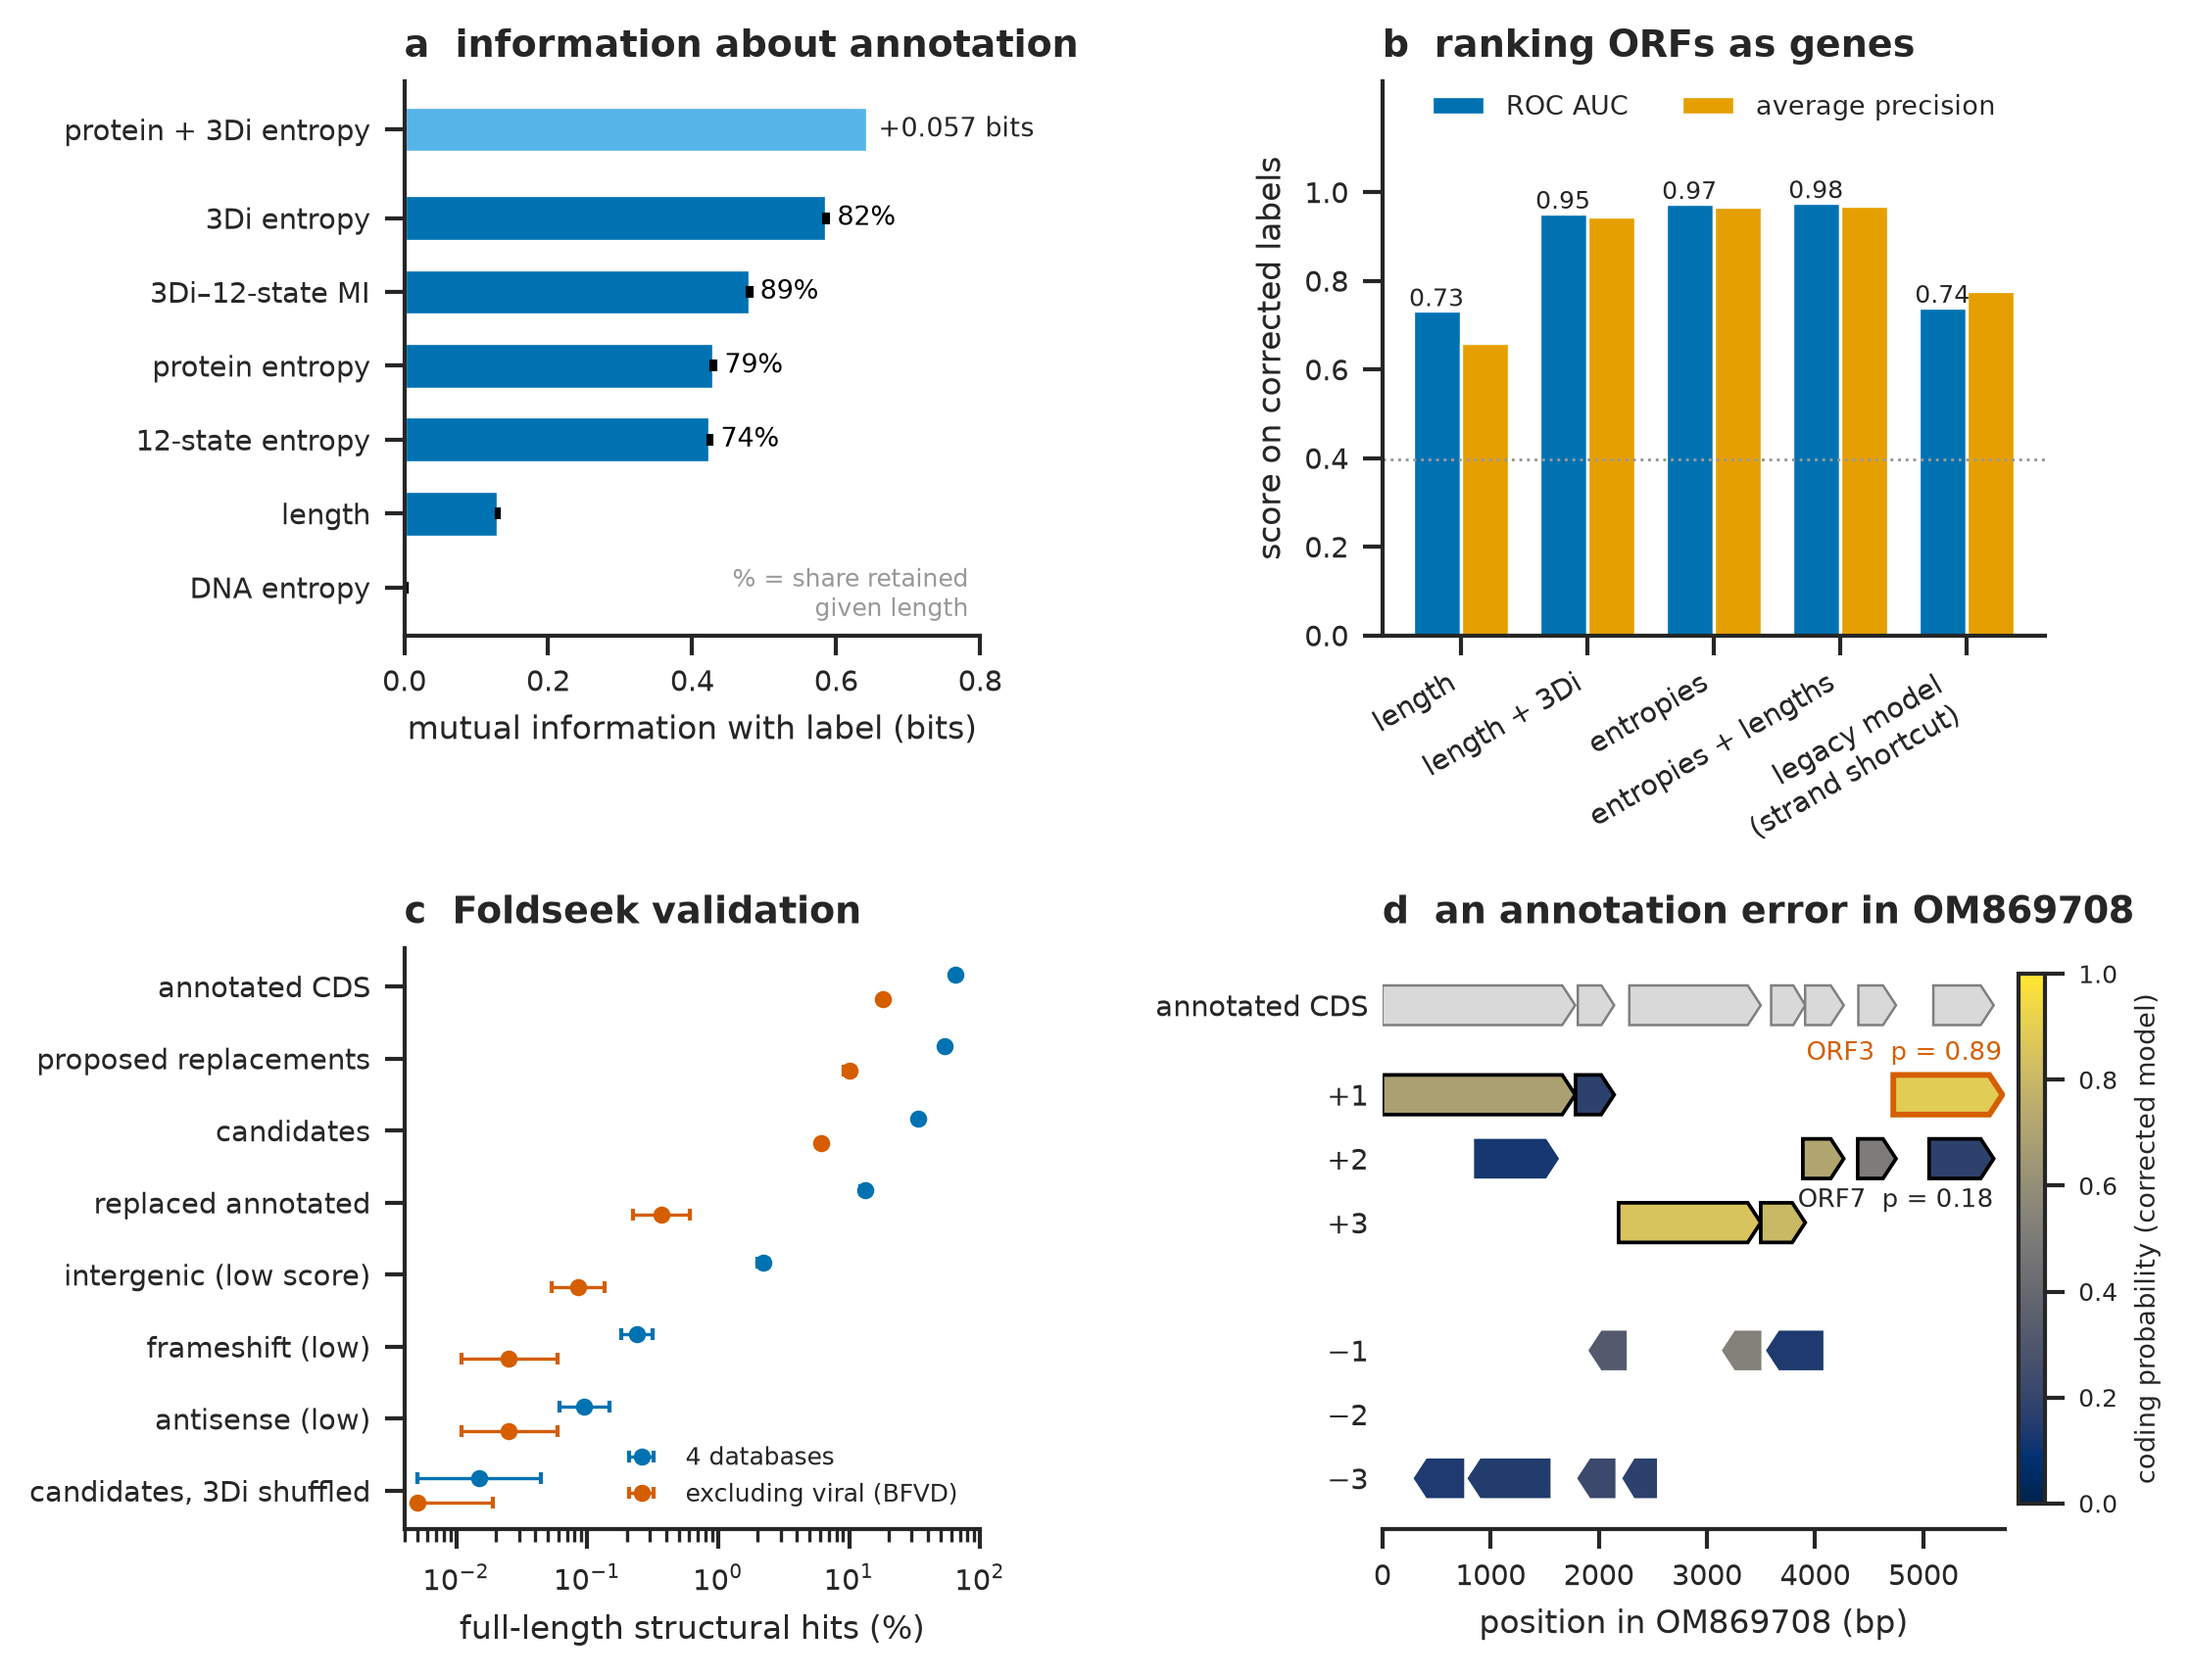
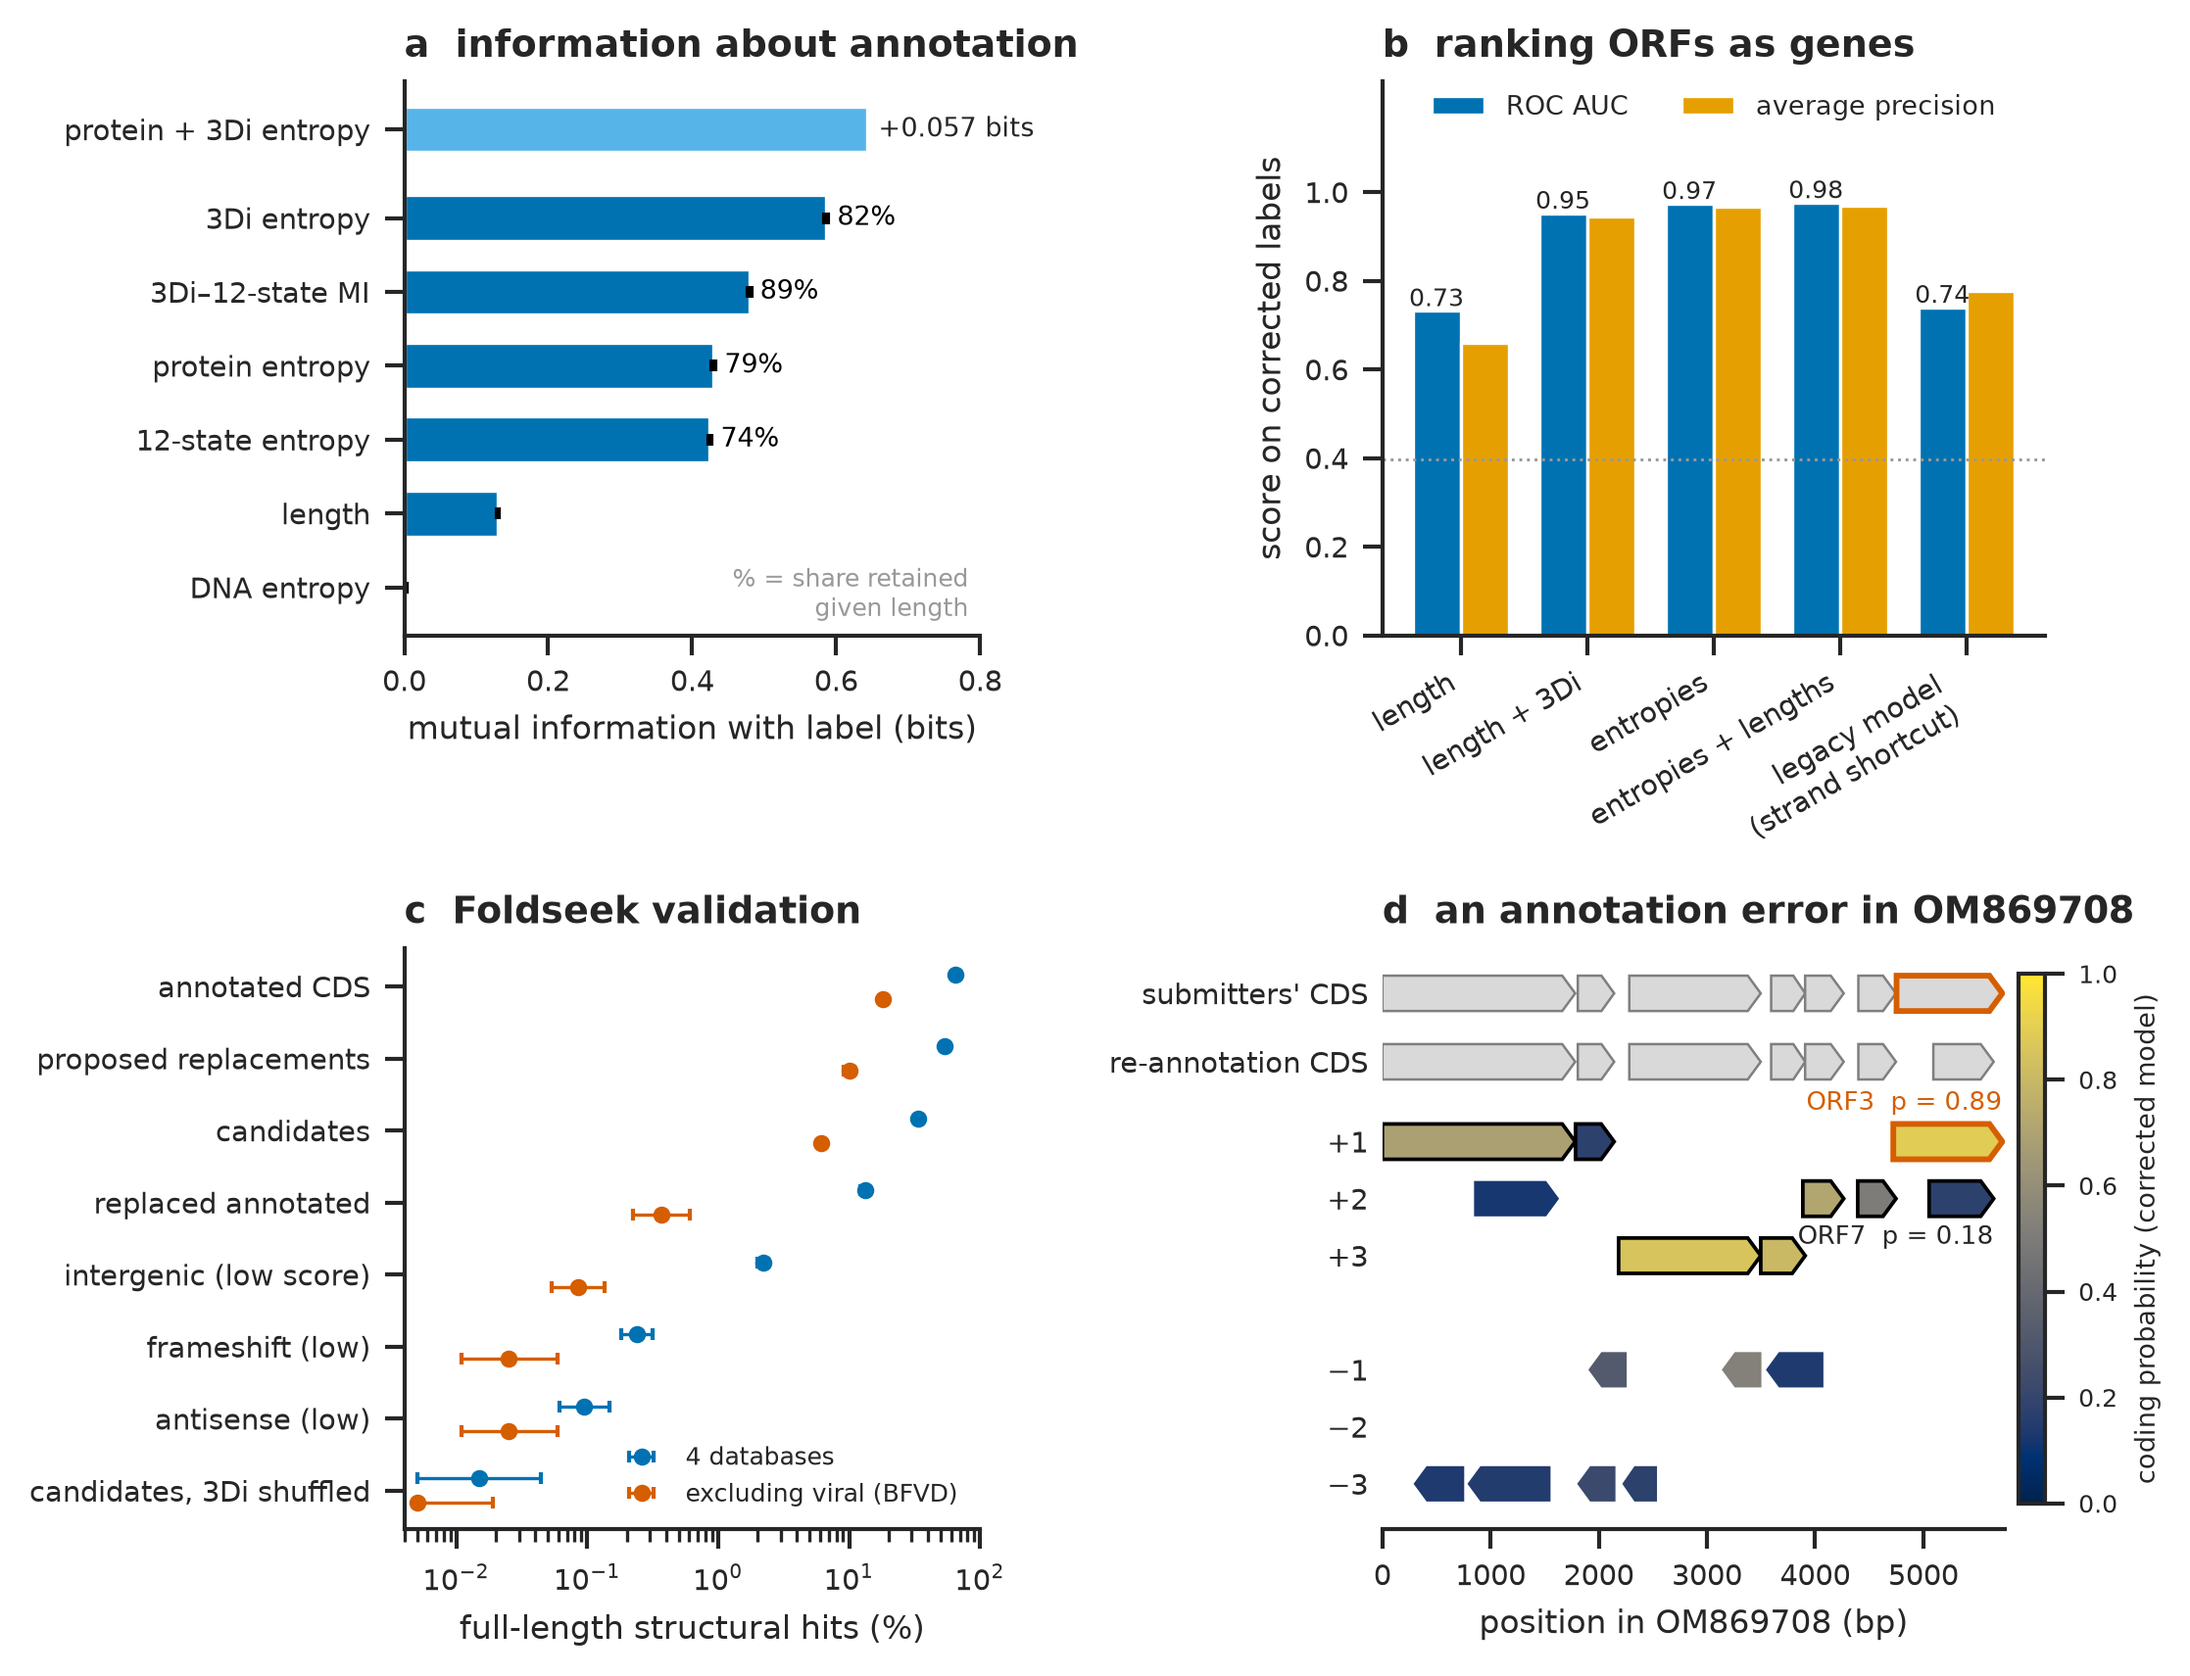
phage P01: hash prediction tables; add submitters' annotation and BLASTP to OM869708 panel
- prep: the locus provenance now hashes both all_orf_oof_predictions.parquet
  files the plotted probabilities come from (review on #122).
- prep/notebook: panel d shows the CDS of the submitters' GenBank record
  (Dipodfec virus RodF1_38) above the Pharokka + phold re-annotation. The
  submitters annotated a replication initiator protein (UPW42009.1,
  4753..5730) that the re-annotation dropped in favour of CDS_0007 (ORF7).
  ORF3, scored p 0.89, contains it; ORF7 scores 0.18.
- figP01_om869708_blastp.tsv.gz: BLASTP 2.12.0+ against nr
  (blast-2026-08-01). ORF7 has no hit at E<1e-5. ORF3's top hit is its own
  record (UPW42009.1, 100%), so the independent support is the other
  microvirus replication initiators (55% identity over 323 aa, E 2e-127).
- run_notebooks.py comes from the merged scaffold fix (review on #122).

Claude-Session: https://claude.ai/code/session_01Y5nLebdoKTjgXzs5LVx2Vk

Changed region(s): [[0.5248, 0.5576, 0.9262, 0.8364], [0.6483, 0.8673, 0.7718, 0.8983], [0.7101, 0.7744, 0.7409, 0.8364]]

diff --git a/manuscript/prep/phage_prepare_data.py b/manuscript/prep/phage_prepare_data.py
@@ -8,13 +8,21 @@ manuscript/data/ that the notebooks read. Nothing is re-estimated: every
 value is copied from a table written by the analysis that computed it.
 
   phage_prepare_data.py --phage-rank /scratch/pawsey1018/edwa0468/genome_entropy/work/phage_rank \
-                        [--blast <om869708_blastp_nr.tsv>]
+                        --blast <om869708_blastp_nr.tsv> --ncbi-gb <OM869708_ncbi.gb>
+
+The OM869708 inputs not produced by this repository:
+  --blast    blastp 2.12.0+ of ORF3/ORF7 (stop-to-stop translations) against
+             NCBI nr (/scratch/references/blastdb_update/blast-2026-08-01/db/nr),
+             -evalue 1e-5 -max_target_seqs 50; script work/om869708/blastp_nr.slurm.
+  --ncbi-gb  the submitters' GenBank record, fetched with
+             efetch.fcgi?db=nuccore&id=OM869708&rettype=gb&retmode=text
 
 Run from the repository root.
 """
 import argparse
 import hashlib
 import json
+import re
 from pathlib import Path
 
 import pandas as pd
@@ -86,7 +94,25 @@ def label_audit():
     write(g, "figPS01_feature_importance.tsv.gz", [imp])
 
 
-def om869708(phage_rank, blast):
+def ncbi_cds(gb):
+    """CDS of a GenBank flatfile: 0-based start, end-exclusive, strand, product, protein_id."""
+    rows, cur = [], None
+    for line in Path(gb).read_text().splitlines():
+        m = re.match(r"^     CDS\s+(complement\()?<?(\d+)\.\.>?(\d+)\)?", line)
+        if m:
+            cur = {"g_start": int(m.group(2)) - 1, "g_end": int(m.group(3)),
+                   "strand": "-" if m.group(1) else "+", "product": "", "protein_id": ""}
+            rows.append(cur)
+        elif re.match(r"^     \S", line):
+            cur = None
+        elif cur is not None:
+            q = re.match(r'^\s+/(product|protein_id)="([^"]*)"', line)
+            if q:
+                cur[q.group(1)] = q.group(2)
+    return pd.DataFrame(rows)
+
+
+def om869708(phage_rank, blast, gb):
     pr = Path(phage_rank)
     f = [("input_id", "==", "OM869708")]
     orfs = pd.read_parquet(pr / "tables/orfs.parquet",
@@ -112,7 +138,9 @@ def om869708(phage_rank, blast):
     r = r[r.input_id == "OM869708"]
     o["replacement_rank"] = o.orf_id.map(dict(zip(r.orf_id, r["rank"])))
     o["replacement_pairs_total"] = len(pd.read_csv(rep, sep="\t", usecols=[0]))
-    sources = [pr / "tables/orfs.parquet", pr / "tables/cds.parquet", rep]
+    sources = [pr / "tables/orfs.parquet", pr / "tables/cds.parquet", rep,
+               pr / "rank_orfs_relabelled_intrinsic/all_orf_oof_predictions.parquet",
+               pr / "rank_orfs_orig/all_orf_oof_predictions.parquet"]
     write(o, "figP01_om869708_orfs.tsv.gz", sources)
     write(cds, "figP01_om869708_cds.tsv.gz", [pr / "tables/cds.parquet"])
     if blast:
@@ -120,6 +148,8 @@ def om869708(phage_rank, blast):
                  "sstart", "send", "evalue", "bitscore", "qcovs", "staxids", "sscinames", "stitle"]
         b = pd.read_csv(blast, sep="\t", names=names)
         write(b, "figP01_om869708_blastp.tsv.gz", [Path(blast)])
+    if gb:
+        write(ncbi_cds(gb), "figP01_om869708_ncbi_cds.tsv.gz", [Path(gb)])
 
 
 PROVENANCE = {}
@@ -130,13 +160,14 @@ def main():
     ap.add_argument("--phage-rank", required=True,
                     help="work/phage_rank directory of the corrected ranking run")
     ap.add_argument("--blast", help="BLASTP tabular output for OM869708 ORF3/ORF7")
+    ap.add_argument("--ncbi-gb", help="the submitters' GenBank record of OM869708")
     args = ap.parse_args()
     OUT.mkdir(parents=True, exist_ok=True)
     mi_panel()
     model_panel()
     foldseek_panel()
     label_audit()
-    om869708(args.phage_rank, args.blast)
+    om869708(args.phage_rank, args.blast, args.ncbi_gb)
     (OUT / "phage_provenance.json").write_text(json.dumps(PROVENANCE, indent=1) + "\n")
     print("  phage_provenance.json")
 
